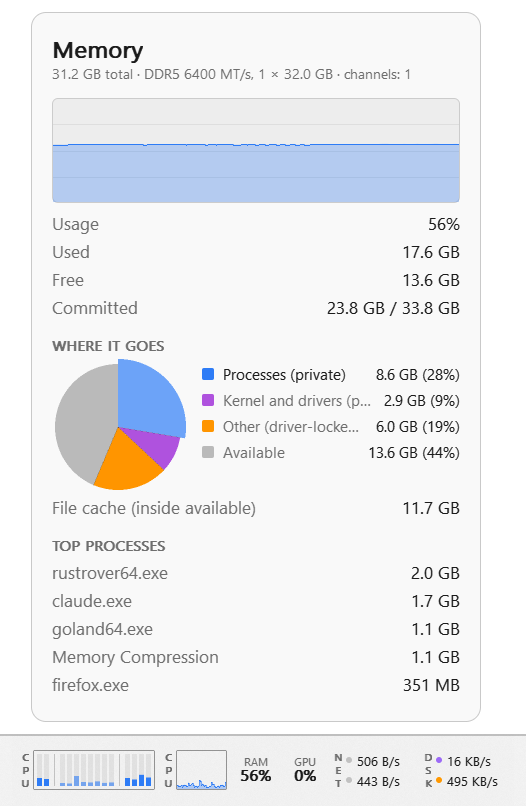
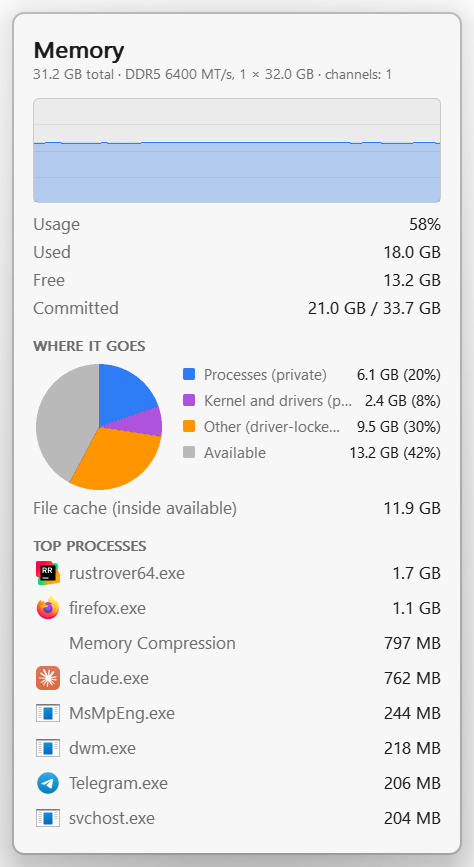
README: screenshots retaken with the acrylic popups, vertical taskbar section

Changed region(s): [[0.0, 0.0, 1.0, 1.0], [0.2658, 0.0, 0.7384, 0.031], [0.0295, 0.0, 0.0591, 0.031]]

diff --git a/README.md b/README.md
@@ -58,6 +58,17 @@ rises (RAM at 67% is already yellow here):
 
 ![by utilisation](docs/strip-utilization.png)
 
+A taskbar docked at the left or right edge gets a column instead of a strip: the widgets go into rows as wide as the
+taskbar, as many per row as fit, and any chart can be set to *Stretch chart* in its module menu to take what is
+left of its row next to the fixed-width widgets. Popups open beside the taskbar. Mixed rows with the CPU and disk
+charts stretched, every chart stretched, and the text widgets:
+
+| | | |
+|---|---|---|
+| ![rows of widgets](docs/vertical-rows.png) | ![stretched charts](docs/vertical-charts.png) | ![text widgets](docs/vertical-compact.png) |
+
+![popup beside a vertical taskbar](docs/vertical-popup.png)
+
 ## Download
 
 Grab `winstats.exe` (x64), `winstats-x86.exe` (x86) or `winstats-arm64.exe` (ARM64) from the
@@ -72,6 +83,8 @@ executable. The same page has `winstats-agent` for the other machines you want t
 | 10 | yes | yes | yes | child of the taskbar; the task list is shrunk to make room |
 | 8 / 8.1 | yes | yes | no | same as 10, no GPU load (the counters appeared in Windows 10) |
 | 7 SP1 | yes | yes | no | the strip is an always-on-top window floating over the taskbar (Windows 7 cannot host a layered child); it hides itself while a full-screen Direct3D game or a presentation is in front; no GPU load, no VRAM |
+
+A taskbar docked at the left or right edge is supported as well: the widgets are stacked in rows (see Screenshots).
 
 The hosting mode is picked automatically (`mode = "auto"` in the config): floating on Windows 7, embedded elsewhere.
 `mode = "floating"` forces the floating window on any version, which is also a way around the Windows 11 task-list
@@ -157,6 +170,7 @@ offset = 0              # shift from that edge, in DIP
 widgets = ["cpu_bars", "cpu_line", "mem", "gpu", "net", "disk", "battery"]
 update_ms = 1000
 labels = true           # vertical CPU / NET / DSK labels like in Stats
+stretched = []          # vertical taskbar: charts that fill the rest of their row ("cpu_line", "pi4/net_chart")
 disk = "C:"
 accent = "blue"         # palette name, "system" (Windows accent colour) or "#RRGGBB"
 theme = "auto"          # auto | dark | light
